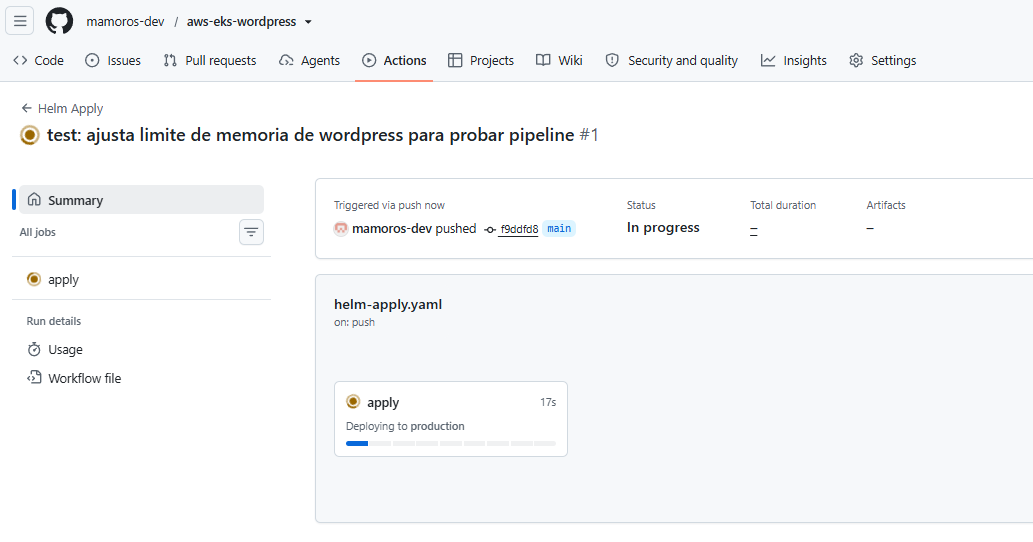
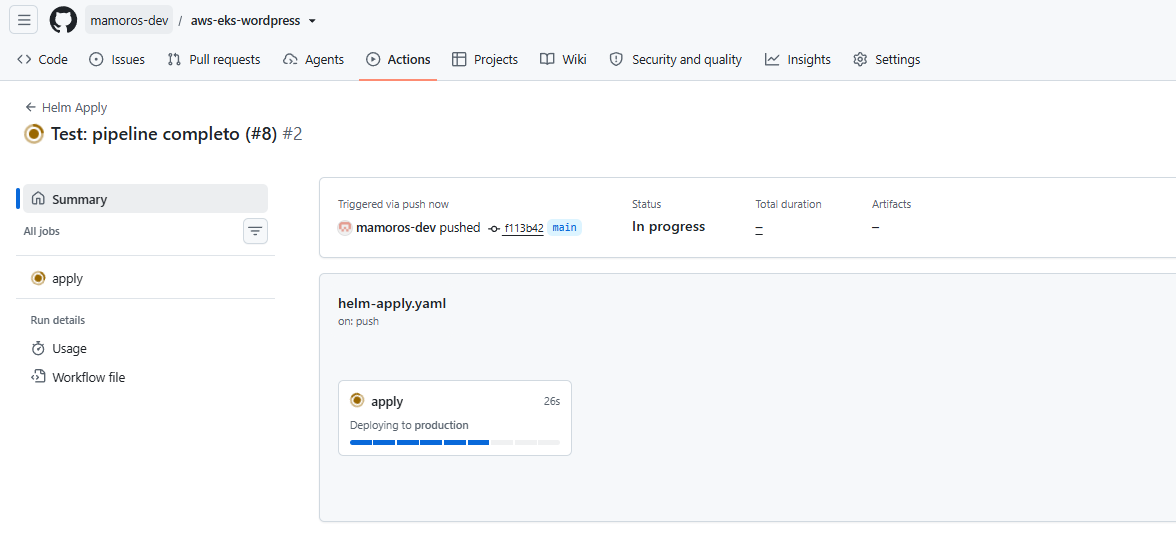
docs: README.md update

diff --git a/README.md b/README.md
@@ -1,1 +1,263 @@
-# 
+# Proyecto 5 — WordPress + MySQL en Kubernetes
+
++ Migración de una arquitectura clásica WordPress + MySQL a un clúster de Kubernetes gestionado en AWS (EKS), aplicando principios de infraestructura como código, almacenamiento persistente, autoescalado, observabilidad y CI/CD.
+
+## Arquitectura
+
+```
+Internet
+   │
+   ▼
+[NGINX Ingress Controller] ── Load Balancer único (AWS NLB/CLB)
+   │
+   ▼
+[Service: wordpress] (ClusterIP)
+   │
+   ▼
+[Deployment: wordpress] ──── HPA (1-3 réplicas, CPU 70%)
+   │
+   │  DNS interno: mysql.wordpress.svc.cluster.local
+   ▼
+[Service: mysql] (ClusterIP + Headless)
+   │
+   ▼
+[StatefulSet: mysql-0]
+   │
+   ▼
+[PVC → PV → Volumen EBS gp3, 5Gi, cifrado]
+
+Observabilidad: Prometheus + Grafana (namespace monitoring)
+Storage: EBS CSI Driver + StorageClass ebs-gp3 (IRSA)
+CI/CD: GitHub Actions + OIDC → IAM Role → EKS Access Entry
+```
+
+**Región:** `eu-west-1` (Irlanda)  
+**Clúster:** `proyecto5-wordpress` — Kubernetes v1.31  
+**VPC:** `10.1.0.0/16` — 2 subredes públicas + 2 privadas (eu-west-1a/1b)  
+**Nodos:** 2× `t3.small` en subred privada (restricción de cuenta AWS Academy/Educate — Free Tier únicamente)  
+
+## Estructura del repositorio
+
+```
+.
+├── infra/
+│   ├── backend.tf              # Backend remoto S3 (reutiliza bucket de resto proyectos)
+│   ├── provider.tf
+│   ├── variables.tf
+│   ├── vpc.tf                  # VPC dedicada 10.1.0.0/16
+│   ├── eks.tf                  # Clúster EKS, node group, access entries
+│   ├── outputs.tf
+│   └── iam.tf                  # OIDC providers, IAM roles (IRSA), GitHub Actions role
+├── helm/
+│   ├── mysql-values.yaml
+│   └── wordpress-values.yaml
+├── k8s/
+│   ├── storageclass.yaml        # StorageClass ebs-gp3
+│   ├── wordpress-ingress.yaml
+│   └── wordpress-hpa.yaml
+├── .github/workflows/
+│   ├── helm-validate.yaml   # Lint en cada PR
+│   ├── helm-diff.yaml       # helm diff en cada PR
+│   └── helm-apply.yaml      # helm upgrade en merge a main (aprobación manual)
+└── docs/images/
+```
+
+## Decisiones de arquitectura relevantes
+
++ **Backend Terraform con locking nativo S3 (`use_lockfile = true`)**:  
+Se reutiliza el bucket `miguel-terraform-state-proyecto2` bajo la ruta `proyecto5/terraform.tfstate`, sustituyendo la tabla DynamoDB de proyectos anteriores por el locking nativo de S3 — mismo objetivo (evitar aplicaciones concurrentes), menos infraestructura que mantener.
+
++ **MySQL dentro del clúster, no en RDS**:  
+Decisión deliberadamente pedagógica. En un entorno de producción real, la recomendación estándar sería **RDS gestionado para la base de datos + EKS únicamente para la capa stateless (WordPress)** — separando el ciclo de vida del dato del ciclo de vida del clúster. Este proyecto despliega MySQL dentro de Kubernetes para entender en profundidad el modelo de almacenamiento persistente (StorageClass / PVC / PV / CSI Driver), StatefulSets y el patrón cliente-servidor interno — conocimiento transferible a cualquier aplicación con estado en Kubernetes, no solo bases de datos.
+
++ **Ingress en vez de un LoadBalancer por Service**:  
+Un `Service type: LoadBalancer` por aplicación implicaría un Load Balancer de AWS (con coste fijo) por cada servicio expuesto. El Ingress Controller centraliza la entrada en un único Load Balancer, con el enrutamiento resuelto a nivel de aplicación dentro del clúster — patrón estándar en clústeres con múltiples servicios.
+
++ **IRSA en lugar de permisos a nivel de nodo**:  
+Tanto el EBS CSI Driver como el pipeline de GitHub Actions usan **IAM Roles for Service Accounts**, otorgando permisos de AWS a nivel de Pod/ServiceAccount individual en lugar de al nodo EC2 completo — principio de mínimo privilegio, mismo patrón aplicado en Proyecto 4 con OIDC de GitHub.
+
++ **CI/CD tradicional (push) en lugar de GitOps**:  
+El pipeline actual empuja cambios activamente desde GitHub Actions hacia el clúster. Una evolución natural de este proyecto sería adoptar **GitOps** (ArgoCD o Flux): un agente dentro del propio clúster que vigila el repositorio y aplica cambios automáticamente, con auto-reconciliación y sin necesidad de credenciales AWS en GitHub Actions. Se documenta como mejora futura, no implementada en esta iteración.
+
+## Lecciones de Kubernetes (troubleshooting real)
+
+**1. Retirada del catálogo gratuito de Bitnami (`docker.io/bitnami` → `bitnamilegacy`)**
+Durante el despliegue, los Pods de MySQL y WordPress fallaron con `ImagePullBackOff` / `NotFound`. Causa: Broadcom retiró en 2025-2026 las imágenes gratuitas del repositorio `docker.io/bitnami`, moviéndolas a un catálogo de pago (Bitnami Secure Images) y dejando una copia sin mantenimiento futuro en `docker.io/bitnamilegacy`. Solución aplicada: apuntar `image.repository` a `bitnamilegacy/<app>` y habilitar `global.security.allowInsecureImages: true`. Lección: dependencias de terceros "gratuitas" pueden cambiar de modelo de negocio sin aviso — mitigación real en producción sería un registro de contenedores propio (ECR) con imágenes propias o congeladas.
+
+**2. Nombre de clave incorrecto en Secret (`mysql-password` vs `mariadb-password`)**
+El chart de WordPress, al usar `externalDatabase.existingSecret`, espera una clave llamada exactamente `mariadb-password` dentro del Secret (herencia de que Bitnami usa MariaDB como motor por defecto). Usar un nombre distinto no provoca un error explícito, sino un `WARN` silencioso seguido de un fallback a `ALLOW_EMPTY_PASSWORD=yes` y fallo de conexión a base de datos. Lección: los logs de inicialización de un contenedor (no solo los errores) pueden contener la causa raíz real de un fallo aparentemente no relacionado.
+
+**3. Zonalidad de EBS y `WaitForFirstConsumer`**
+Los volúmenes EBS son recursos zonales (viven en una AZ concreta). Usar `volumeBindingMode: WaitForFirstConsumer` en la StorageClass retrasa la creación del volumen hasta que el Pod ya tiene nodo asignado, evitando un desajuste de AZ entre el volumen y el nodo que lo monta.
+
+**4. Uso de memoria en nodos t3.small con stack completo**
+Con MySQL + WordPress + Ingress Controller + kube-prometheus-stack corriendo simultáneamente, el uso de memoria de los nodos alcanza ~82-86%. Con el HPA activo escalando WordPress bajo carga, existe riesgo real de Pods en `Pending` por falta de memoria (`FailedScheduling: Insufficient memory`). Mitigación aplicada: `resources.requests/limits` explícitos en todos los charts y retención reducida de Prometheus (3 días). En un clúster de producción, este escenario apuntaría a añadir un Cluster Autoscaler o nodos de mayor tamaño.
+
+**5. `authentication_mode` del clúster EKS y EKS Access Entries**
+Al añadir `aws_eks_access_entry`/`aws_eks_access_policy_association` para dar acceso al pipeline de CI/CD (Bloque 10), Terraform falló con `InvalidRequestException: cluster's authentication mode must be set to API or API_AND_CONFIG_MAP`. El clúster, creado sin especificar `access_config`, había quedado en el modo heredado `CONFIG_MAP`. Solución: añadir `access_config { authentication_mode = "API_AND_CONFIG_MAP", bootstrap_cluster_creator_admin_permissions = true }` al recurso `aws_eks_cluster`, como modificación in-place sin recrear el clúster. Lección: IAM controla quién puede *entrar* al clúster (`eks:DescribeCluster`); lo que esa identidad puede *hacer* dentro es un sistema de autorización propio de Kubernetes (Access Entries o RBAC clásico vía ConfigMap), independiente de IAM.
+
+**6. Cambio de formato del claim `sub` en tokens OIDC de GitHub Actions**
+La trust policy del IAM Role para GitHub Actions, escrita con el formato `repo:owner/repo:*`, rechazaba la autenticación con `Not authorized to perform sts:AssumeRoleWithWebIdentity`. Un workflow de debug decodificando el JWT real reveló que GitHub había cambiado el formato del claim `sub` a identificadores numéricos inmutables (`repo:owner@ownerID/repo@repoID:*`), y que el uso de `environment:` en el job cambia además el sufijo del claim (`:environment:production` en vez de `:ref:refs/heads/main`). Lección: nunca asumir el formato exacto de un claim de identidad federada sin verificarlo en un token real — los proveedores pueden cambiar el formato sin previo aviso, y una condición `StringLike` con comodín en el sufijo es más robusta que una coincidencia exacta frente a distintos triggers de un mismo repo.
+
+**7. Los Environments de GitHub Actions son específicos por repositorio**
+El gate de aprobación manual (`environment: production`) configurado en el repositorio de Proyecto 4 no se traslada automáticamente a este repositorio nuevo — cada repo requiere su propia configuración de Environment con *required reviewers* en Settings → Environments. Sin esta configuración, el workflow de apply se ejecuta sin pausa, aplicando cambios reales al clúster sin punto de control humano.
+
+## Infraestructura desplegada y funcionando
+
+Evidencia real de la infraestructura desplegada (capturas en `docs/images/`):
+
+- `kubectl get nodes` con los 2 nodos t3.small en estado `Ready`.
+![](./docs/images/nodes.png)  
+
+- `kubectl get pods -A` con MySQL, WordPress, Ingress Controller y stack de monitorización en `Running`.
+![](./docs/images/pods.png)  
+
+- Consola AWS, clúster `proyecto5-wordpress` activo.  
+![](./docs/images/eks.png)  
+![](./docs/images/eks2.png)  
+
+- Consola AWS, Volumes `proyecto5-wordpress` activos.
+![](./docs/images/volumes.png)  
+
+- Consola AWS, VPC `proyecto5-wordpress` activo.
+![](./docs/images/vpc.png)  
+
+- Consola AWS, IAM roles y providers activos:
+![](./docs/images/iam_roles.png)  
+![](./docs/images/iam_providers.png)  
+
+- Consola AWS, Load Balancer del Ingress con su DNS name.
+![](./docs/images/load-balancer.png)  
+
+- WordPress cargando en el navegador vía la URL pública del Ingress (no `localhost`).
+![](./docs/images/wordpress.png)  
+
+- `kubectl get hpa -n wordpress` durante prueba de carga, `REPLICAS` escalado de 1 a 2-3.
+![](./docs/images/hpa.png)  
+
+- Dashboard preconstruido `Kubernetes / Compute Resources / Namespace (Pods)` filtrado por `wordpress`.
+![](./docs/images/grafana.png)  
+
+- Dashboard propio con métricas de CPU, memoria, disco y réplicas.
+![](./docs/images/grafana_custom.png)  
+
+- Workflows con Github Actions para validate, diff y apply.
+![](./docs/images/workflow_validate.png)  
+![](./docs/images/workflow_diff.png)  
+![](./docs/images/workflow_apply.png)  
+![](./docs/images/workflow_apply2.png)  
+
+
+## Prueba de que funciona de verdad, no solo en el diagrama
+
++ ### Comprobación para verificar que un cambio realizado en el deployment de wordpress se despliega vía pipeline y llega realmente al clúster:
+
+![](./docs/images/deploy-wp.png)  
+![](./docs/images/deploy-wp2.png)  
+> Modificamos el valor de Memory  
+
+![](./docs/images/deploy-wp3.png)  
+> Hacemos un push a main y vemos que hace el workflow con siempre aprobación manual del merge del Pull Request realizado  
+
+![](./docs/images/deploy-wp4.png)  
+![](./docs/images/deploy-wp5.png)  
+> Comprobamos que el cluster tiene ahora el valor nuevo desplegado con el comando:
+```bash
+kubectl get deployment wordpress -n wordpress -o jsonpath='{.spec.template.spec.containers[0].resources.limits.memory}'
+```
+
++ ### Comprobación del funcionamiento de wordpress con mysql con la creación de un nuevo post en el blog de la página web mediando el acceso al panel de administración:
+![](./docs/images/wordpress-mysql.png)  
+![](./docs/images/wordpress-mysql2.png)  
+![](./docs/images/wordpress-mysql3.png)  
+![](./docs/images/wordpress-mysql4.png)  
+![](./docs/images/wordpress-mysql5.png)  
+![](./docs/images/wordpress-mysql6.png)  
+
+## Cómo desplegar desde cero
+
+```bash
+# 1. Infraestructura base
+terraform init
+terraform apply
+
+# 2. Configurar kubectl
+aws eks update-kubeconfig --name proyecto5-wordpress --region eu-west-1
+
+# 3. Namespace y Secrets (no versionados en Git)
+kubectl create namespace wordpress
+kubectl create secret generic mysql-root-secret --namespace wordpress \
+  --from-literal=mysql-root-password='<password-segura>' \
+  --from-literal=mysql-password='<password-segura>'
+kubectl create secret generic wordpress-db-secret --namespace wordpress \
+  --from-literal=mariadb-password='<misma-password-mysql-password>'
+
+# 4. StorageClass
+kubectl apply -f storageclass.yaml
+
+# 5. Helm charts (repos)
+helm repo add bitnami https://charts.bitnami.com/bitnami
+helm repo add ingress-nginx https://kubernetes.github.io/ingress-nginx
+helm repo add prometheus-community https://prometheus-community.github.io/helm-charts
+helm repo update
+
+# 6. MySQL, esperar a Running antes de continuar
+helm install mysql bitnami/mysql --namespace wordpress --values helm/mysql-values.yaml
+
+# 7. WordPress
+helm install wordpress bitnami/wordpress --namespace wordpress --values helm/wordpress-values.yaml \
+  --set image.repository=bitnamilegacy/wordpress \
+  --set image.tag=latest \
+  --set global.security.allowInsecureImages=true
+
+# 8. Ingress Controller + recursos Ingress/HPA
+helm install ingress-nginx ingress-nginx/ingress-nginx --namespace ingress-nginx \
+  --create-namespace --set controller.service.type=LoadBalancer
+kubectl apply -f k8s/wordpress-ingress.yaml
+kubectl apply -f k8s/wordpress-hpa.yaml
+
+# 9. Monitorización
+helm install monitoring prometheus-community/kube-prometheus-stack \
+  --namespace monitoring --create-namespace --values helm/monitoring-values.yaml
+```
+
+## Cómo destruir (fin de sesión, evitar coste nocturno)
+
+```bash
+kubectl delete ingress wordpress-ingress -n wordpress
+helm uninstall monitoring -n monitoring
+helm uninstall wordpress mysql -n wordpress
+helm uninstall ingress-nginx -n ingress-nginx
+kubectl get pvc --all-namespaces   # verificar que no quedan volúmenes huérfanos
+terraform destroy
+```
+> NOTA: como los volumenes tienen la propiedad `reclaimPolicy: Retain` sobrevive incluso a `terraform destroy`**. Los volúmenes EBS creados dinámicamente por el CSI Driver no están gestionados por Terraform (no aparecen en el `.tfstate`). Con `reclaimPolicy: Retain`, borrar el PVC o incluso destruir el clúster completo con `terraform destroy` no elimina el volumen EBS subyacente — queda huérfano y sigue facturando.   
+
+> Verificación y limpieza correcta tras cualquier destroy: `aws ec2 describe-volumes --filters "Name=status,Values=available"` y `aws ec2 delete-volume --volume-id <id>` para cualquier resultado relacionado con el proyecto.
+
+## Stack técnico
+
+| Capa | Herramienta |
+|---|---|
+| IaC | Terraform (backend S3 con locking nativo, sin DynamoDB) |
+| Orquestación | Kubernetes 1.31 (Amazon EKS) |
+| Empaquetado de apps | Helm 3 (charts Bitnami) |
+| Almacenamiento persistente | EBS CSI Driver + StorageClass dinámica (gp3, cifrado) |
+| Exposición externa | NGINX Ingress Controller |
+| Autoescalado | HorizontalPodAutoscaler + Metrics Server |
+| Observabilidad | kube-prometheus-stack (Prometheus + Grafana + Alertmanager) |
+| CI/CD | GitHub Actions con autenticación OIDC (sin claves estáticas) |
+| Identidad AWS↔K8s | IRSA (IAM Roles for Service Accounts) + EKS Access Entries |
+
+## ⚠ Nota sobre costes
+
++ Este proyecto genera coste real mientras el clúster EKS está activo (~$0.19-0.20/hora incluyendo NAT Gateway, sin contar Load Balancer ni volúmenes EBS adicionales). 
++ Se recomienda `terraform destroy` al final de cada sesión de trabajo. Al no persistir los volúmenes EBS entre sesiones, los datos de WordPress/MySQL no sobreviven a un ciclo destroy/apply — decisión consciente para este proyecto de portfolio, priorizando coste mínimo sobre persistencia de datos de prueba.
+
+## Estado
+
+**Proyecto completado** — Verificado de extremo a extremo, incluyendo pipeline de CI/CD funcional con aprobación manual.
+
+## Autor
+
++ Miguel — [GitHub](https://github.com/mamoros-dev) · [LinkedIn](https://www.linkedin.com/in/miguel-amoros-moret/)
